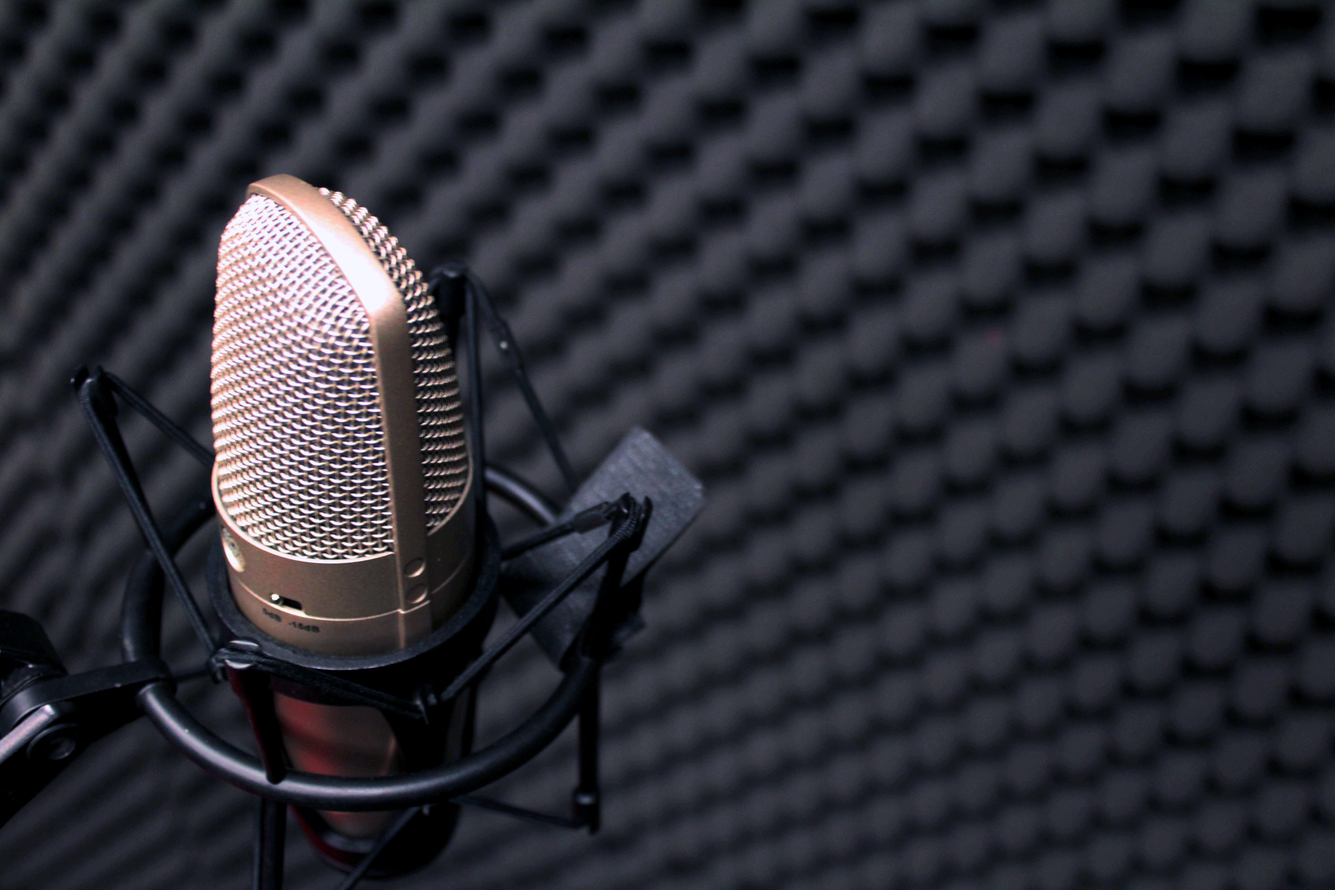
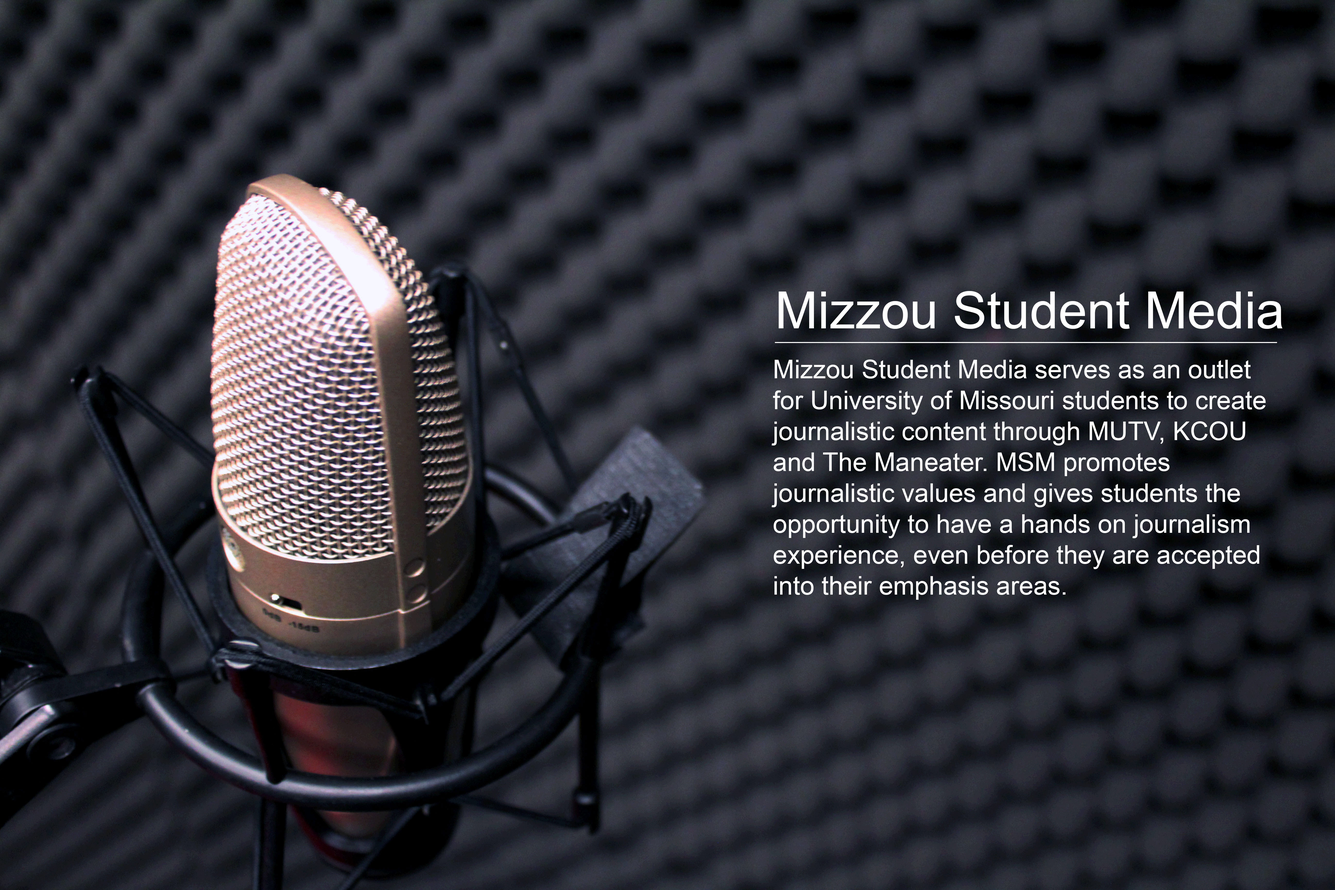
overlay text

Changed region(s): [[0.5625, 0.4062, 0.9375, 0.6875], [0.5625, 0.3125, 0.9688, 0.375]]

diff --git a/style.css b/style.css
@@ -43,6 +43,12 @@ p{
   text-align: left;
 }
 
+.aboutheader {
+  color: black;
+  text-align: left;
+  width:100%;
+}
+
 .about{
   display: table;
   width: 100%;
@@ -51,17 +57,12 @@ p{
   margin: 0 auto;
 }
 
-.aboutheader {
-  color: black;
-  text-align: left;
-  width:100%;
-}
-
 .aboutcontent{
   display: table;
       width: 100%;
       height: 10%;
       margin: 0 auto;
+
 }
 
 .aboutphoto {
@@ -76,13 +77,6 @@ p{
   width: 100%;
   height: 10%;
   margin: 0;
-}
-
-.aboutparagraph{
-  font-size: 1.0em;
-  text-align: left;
-  vertical-align: middle;
-  float: top right;
 }
 
 

diff --git a/index.html b/index.html
@@ -60,8 +60,6 @@
       <aside class="aside aboutphoto">
           <img src="photos/micphoto.jpg"/>
       </aside>
-      <aside class="aside aboutparagraph">Mizzou Student Media serves as an outlet for University of Missouri students to create journalistic content through MUTV, KCOU and The Maneater. MSM promotes journalistic values and gives students the opportunity to have a hands on journalism experience, even before they are accepted into their emphasis areas.
-      </aside>
   </article>
   </div>
 
